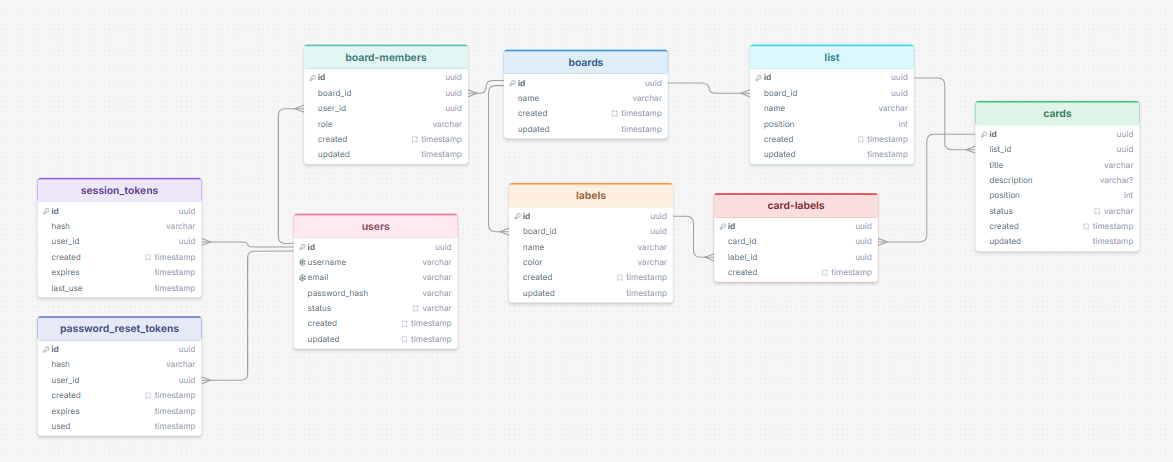
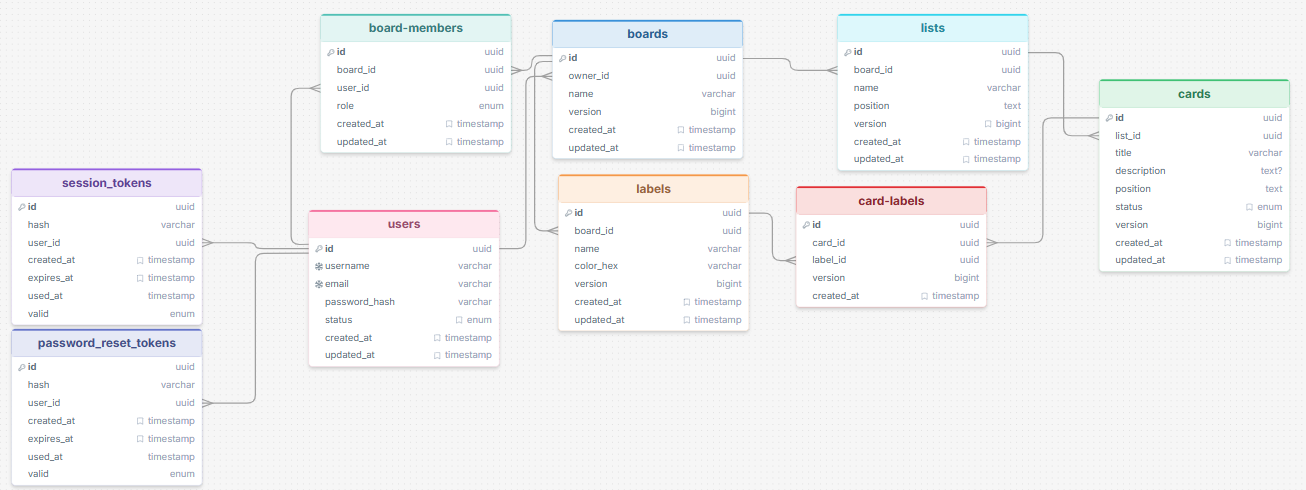
docs:Images updated

Changed region(s): [[0.0, 0.0303, 1.0, 1.0]]

diff --git a/docs/archictecure.md b/docs/archictecure.md
@@ -20,12 +20,6 @@ flowchart TD
     BL --> DB
 ```
 
-## Entity Relationship
-
-Maybe
-outdated
-![Local Image](./images/Domain%20Entities%20Flowchart.png)
-
 ## Application Flow
 
 ![Local Image](./images/AppFlow.png)

diff --git a/docs/domain-entities.md b/docs/domain-entities.md
@@ -1,0 +1,6 @@
+## Domain Entity Design
+
+![Local Image](./images/Domain%20Entities%20Flowchart.png)
+
+### Domain Entities
+
